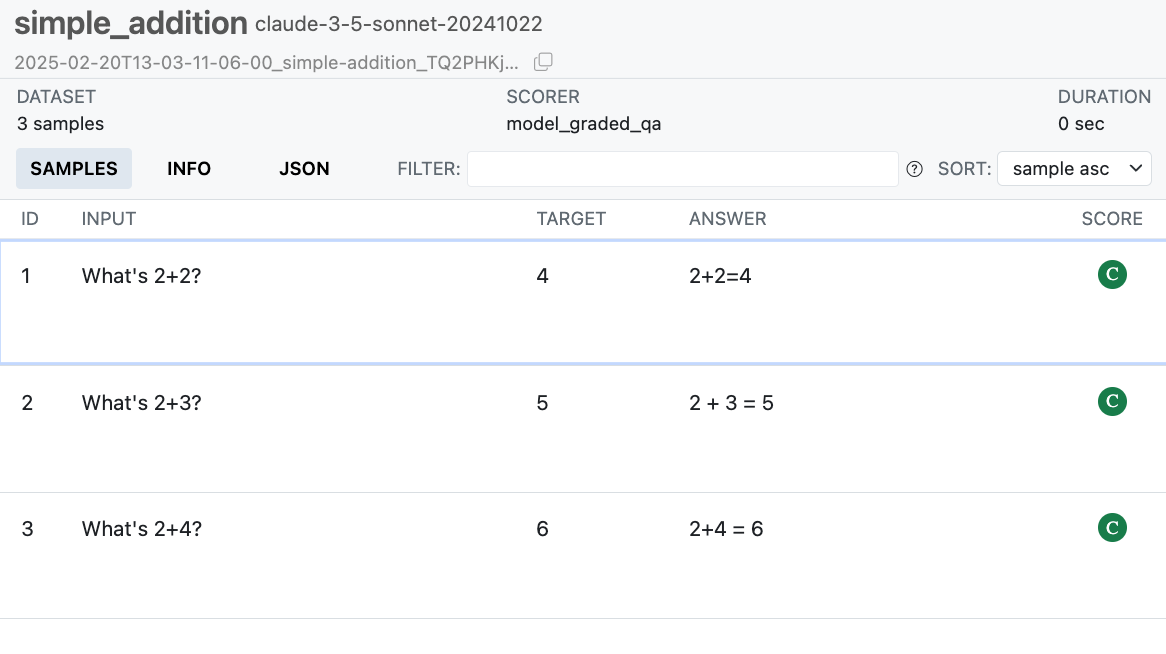
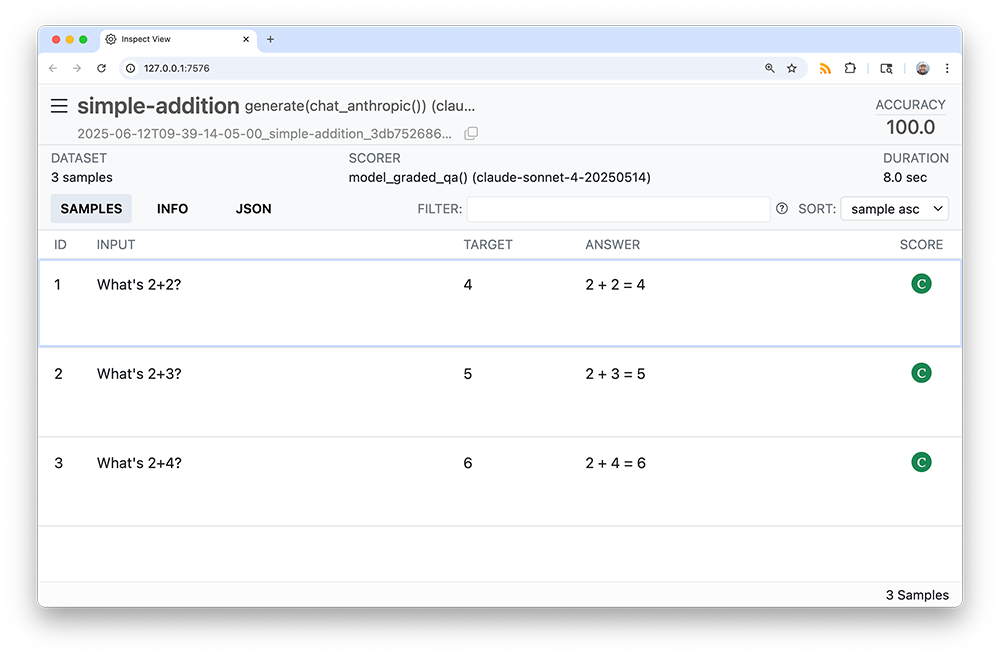
clarify scope in package-level documentation (closes #132)

diff --git a/README.md b/README.md
@@ -14,7 +14,16 @@ status](https://www.r-pkg.org/badges/version/vitals)](https://CRAN.R-project.org
 
 vitals is a framework for large language model evaluation in R. It’s
 specifically aimed at [ellmer](https://ellmer.tidyverse.org/) users who
-want to measure the effectiveness of their LLM-based apps.
+want to measure the effectiveness of their LLM products like [custom
+chat apps](https://posit.co/blog/custom-chat-app/) and
+[querychat](https://github.com/posit-dev/querychat) apps. You can use it
+to:
+
+- Measure whether changes in your prompts or additions of new tools
+  improve performance in your LLM product
+- Compare how different models affect performance, cost, and/or latency
+  of your LLM product
+- Surface problematic behaviors in your LLM product
 
 The package is an R port of the widely adopted Python framework
 [Inspect](https://inspect.ai-safety-institute.org.uk/). While the
@@ -52,7 +61,7 @@ simple_addition <- tibble(
 
 tsk <- Task$new(
   dataset = simple_addition, 
-  solver = generate(chat_anthropic(model = "claude-3-7-sonnet-latest")), 
+  solver = generate(chat_anthropic(model = "claude-sonnet-4-20250514")), 
   scorer = model_graded_qa()
 )
 ```
